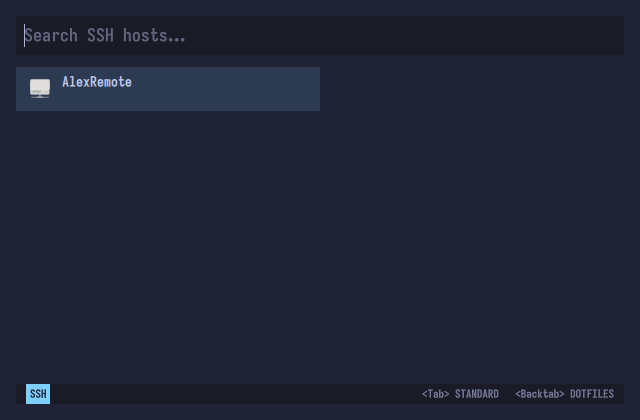
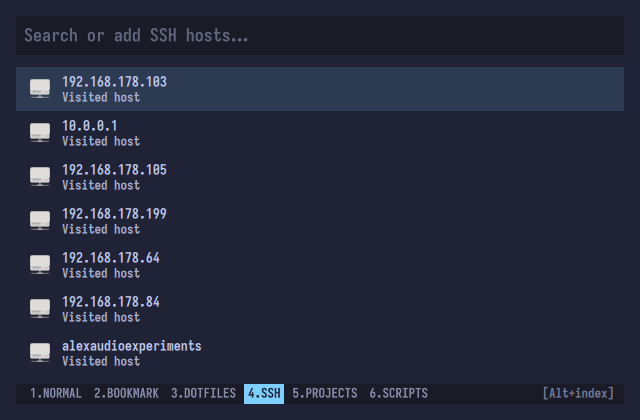
Prepare upcoming release

diff --git a/App/qml/StatusBar.qml b/App/qml/StatusBar.qml
@@ -4,7 +4,7 @@ Item {
     id: root
 
     property string mode: "standard"
-    property var modes: ["standard", "bookmark", "dotfiles", "ssh", "projects", "scripts"]
+    property var modes: ["standard", "bookmarks", "dotfiles", "ssh", "projects", "scripts"]
 
     property color background: "transparent"
     property color foreground: "#cdd6f4"
@@ -26,7 +26,7 @@ Item {
 
     function getModeLabel(m) {
         switch (m) {
-            case "bookmark": return "BOOKMARK"
+            case "bookmarks": return "BOOKMARKS"
             case "dotfiles": return "DOTFILES"
             case "ssh":      return "SSH"
             case "projects": return "PROJECTS"
@@ -89,7 +89,7 @@ Item {
                         Text {
                             id: itemText
                             anchors.centerIn: parent
-                            text: `${index + 1}. ${root.getModeLabel(modelData)}`
+                            text: `${index + 1}.${root.getModeLabel(modelData)}`
                             color: modeDelegate.isActive ? root.accentText : root.foreground
                             opacity: modeDelegate.isActive ? 1.0 : 0.65
                             font.family: root.fontFamily

diff --git a/App/qml/Main.qml b/App/qml/Main.qml
@@ -14,7 +14,7 @@ Window {
 
     readonly property int columns: Math.max(1, theme.columns)
     readonly property bool bar_on_top: theme.status_bar_position !== "bottom"
-    readonly property var mode_order: ["standard", "bookmark", "dotfiles", "ssh", "projects", "scripts"]
+    readonly property var mode_order: ["standard", "bookmarks", "dotfiles", "ssh", "projects", "scripts"]
     readonly property int mode_slot_count: Math.min(10, mode_order.length)
 
     onActiveChanged: {

diff --git a/QtModules/EntryModel/include/EntryModel/EntryModel.h b/QtModules/EntryModel/include/EntryModel/EntryModel.h
@@ -101,7 +101,7 @@ public:
     static inline QString mode_to_string(Mode m) {
         switch (m) {
             case Mode::Standard:  return QStringLiteral("standard");
-            case Mode::Bookmarks: return QStringLiteral("bookmark");
+            case Mode::Bookmarks: return QStringLiteral("bookmarks");
             case Mode::Dotfiles:  return QStringLiteral("dotfiles");
             case Mode::SSH:       return QStringLiteral("ssh");
             case Mode::Projects:  return QStringLiteral("projects");

diff --git a/README.md b/README.md
@@ -19,7 +19,8 @@ Its features are:
 - scripts mode for running custom scripts on a terminal
 - instant toggling after warmup
 - vim/tmux-style status bar
-- mode switcher with Alt + index
+- mode switcher with `Alt + index`
+- for keeping the search bar editable, you can move through it char by char using `Ctrl + left/right`.
 
 Currently tested on `sway` and `hyprland`, but should work on other Wayland compositors as well.
 Distros tested were Ubuntu 26.04 and Arch Linux, both on x86_64 and aarch64.
@@ -142,7 +143,9 @@ ahoiplank --ssh
 
 It will read from `~/.ssh/known_hosts`.
 
-And then it will start your ssh session on the terminal configured on your `config.json` file.
+And then it will start a SSH session on the terminal configured on your `config.json` file.
+
+The SSH mode also accepts user input at the search bar if no result can be found by the fuzzy search. It then tries to start a session with the given address. `ahoiplank` is not aware of wrong typing, as it starts the session as a fire and forget process.
 
 ### Dotfiles
 
@@ -181,16 +184,43 @@ You can list your projects by running
 ahoiplank --list-projects
 ```
 
-It will return output something like
+It will return output something like:
 ```
 NAME            PATH
 ahoiplank       /home/alex/Projekte/AhoiPlank
 ahoicpp.nvim    /home/alex/Projekte/ahoicpp.nvim
 ```
 
+### Scripts
+
+The scripts mode allows the user to run and store recurrent commands. Start it with:
+
+```bash
+ahoiplank --scripts
+```
+
+If you type like `python3` at the search bar, it will then start a new instance of your configured terminal with the Python interpreter.
+The command is stored in a new dotfile `.config/ahoiplank/scripts.json` which looks like:
+
+```json
+{
+    "scripts": [
+        {
+            "icon": "utilities-terminal",
+            "name": "python3",
+            "persistent_terminal": true,
+            "script": "python3"
+        }
+    ]
+}
+```
+
+You can then change its name and/or if you want that the terminal instance persists when the script you ran finishes.
+
+
 ## Running the daemon on background
 
-You are also able to run `ahoiplank` on the background by starting with:
+For quick startup, `ahoiplank` can run as a daemon:
 
 ```bash
 ahoiplank --daemon-start
@@ -222,6 +252,22 @@ The following does the trick.
 ```bash
 cp -r dotfiles/ahoiplank ~/.config
 ```
+
+## Screenshots
+
+A few images of the six modes follow:
+
+![ahoiplank normal mode](resources/ahoiplank-window.png)
+
+![ahoiplank bookmarks mode](resources/ahoiplank-bookmarks-window.png)
+
+![ahoiplank dotfiles mode](resources/ahoiplank-dotfiles-window.png)
+
+![ahoiplank ssh mode](resources/ahoiplank-ssh-window.png)
+
+![ahoiplank projects mode](resources/ahoiplank-projects-window.png)
+
+![ahoiplank scripts mode](resources/ahoiplank-scripts-window.png)
 
 ## Customizing
 
